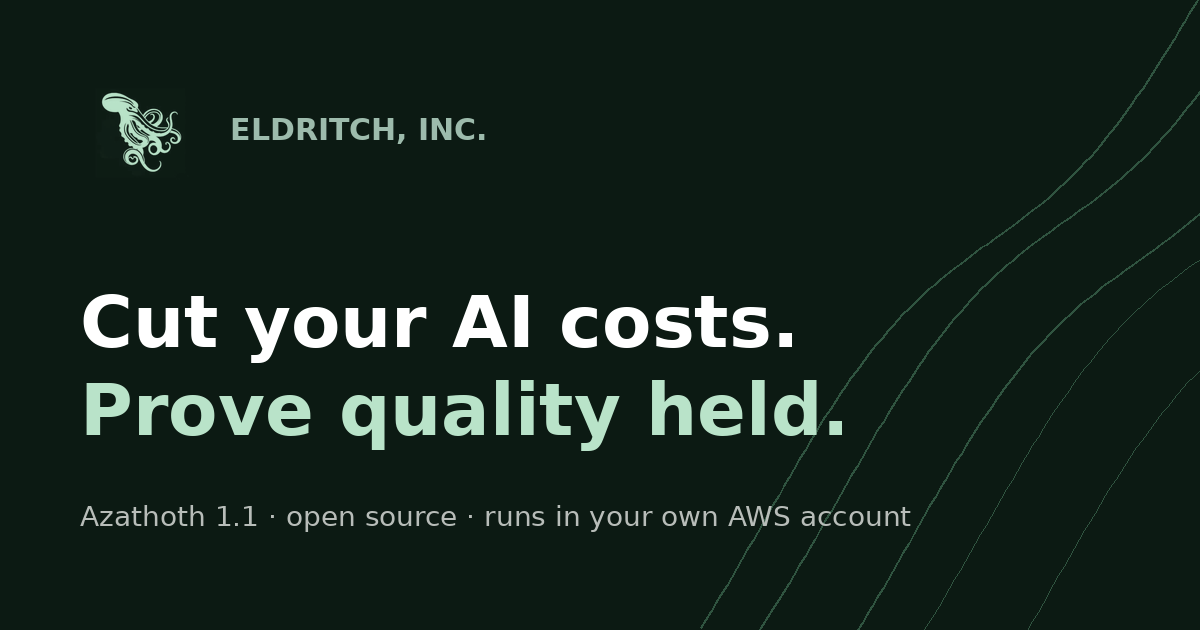
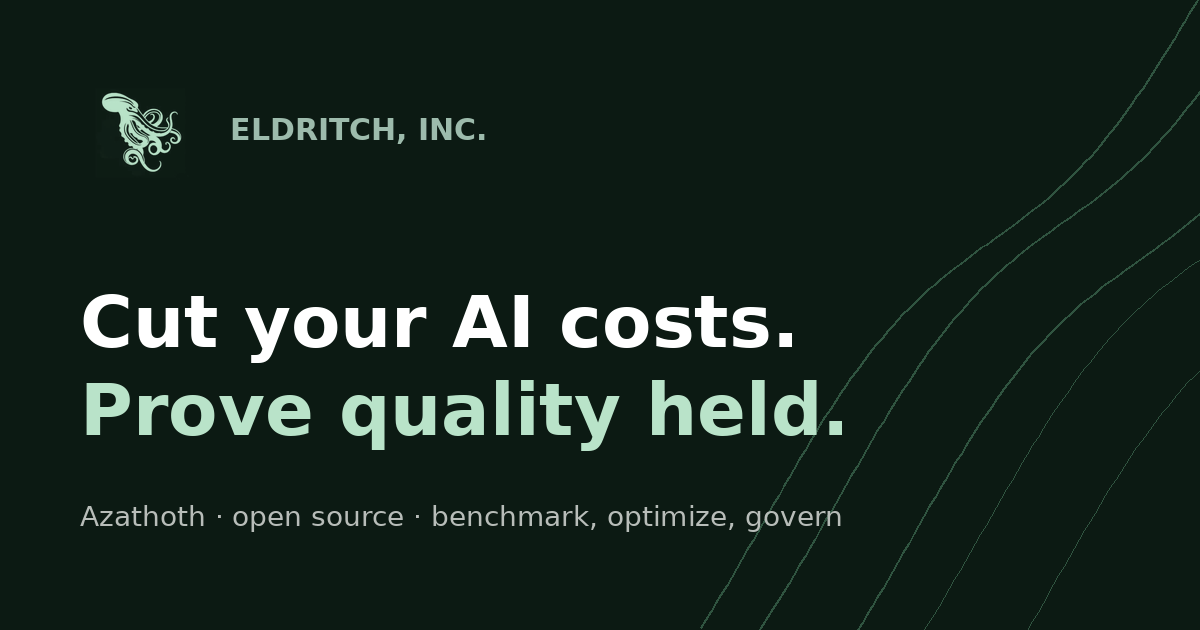
Update release facts for Azathoth 1.2.0 and azathoth-mcp

Changed region(s): [[0.185, 0.7841, 0.7708, 0.8444]]

diff --git a/src/data/site.ts b/src/data/site.ts
@@ -1,5 +1,6 @@
 // Single source of truth for facts that change between releases.
 // Bump `azathoth.version` (and the container tag) on each release.
+// azathoth-ai and azathoth-mcp are released together at the same version.
 
 export const site = {
   name: "Eldritch, Inc.",
@@ -11,14 +12,28 @@ export const site = {
   githubOrg: "https://github.com/EldritchInc",
 } as const;
 
+const version = "1.2.0";
+
 export const azathoth = {
-  version: "1.1.0",
-  releaseName: "Azathoth on AWS",
+  version,
+  // Optional release nickname shown beside the version ("" for none).
+  releaseName: "",
   pypiName: "azathoth-ai",
   pypiUrl: "https://pypi.org/project/azathoth-ai/",
   repo: "https://github.com/EldritchInc/azathoth",
-  image: "ghcr.io/eldritchinc/azathoth:1.1.0",
+  changelog: "https://github.com/EldritchInc/azathoth/blob/main/CHANGELOG.md",
+  image: `ghcr.io/eldritchinc/azathoth:${version}`,
+  imageNote: "amd64 and arm64, cosign-signed; includes the CLI, queue worker and MCP server",
   extras: ["postgres", "bedrock", "worker", "otel"],
+  // Set to a URL once the 60-second MCP demo exists; the page hides it until then.
+  demoVideoUrl: null as string | null,
+} as const;
+
+export const mcp = {
+  pypiName: "azathoth-mcp",
+  pypiUrl: "https://pypi.org/project/azathoth-mcp/",
+  command: "azathoth-mcp serve",
+  guide: "https://github.com/EldritchInc/azathoth/blob/main/docs/mcp.md",
 } as const;
 
 // Commercial offers shown on /workwithus.
